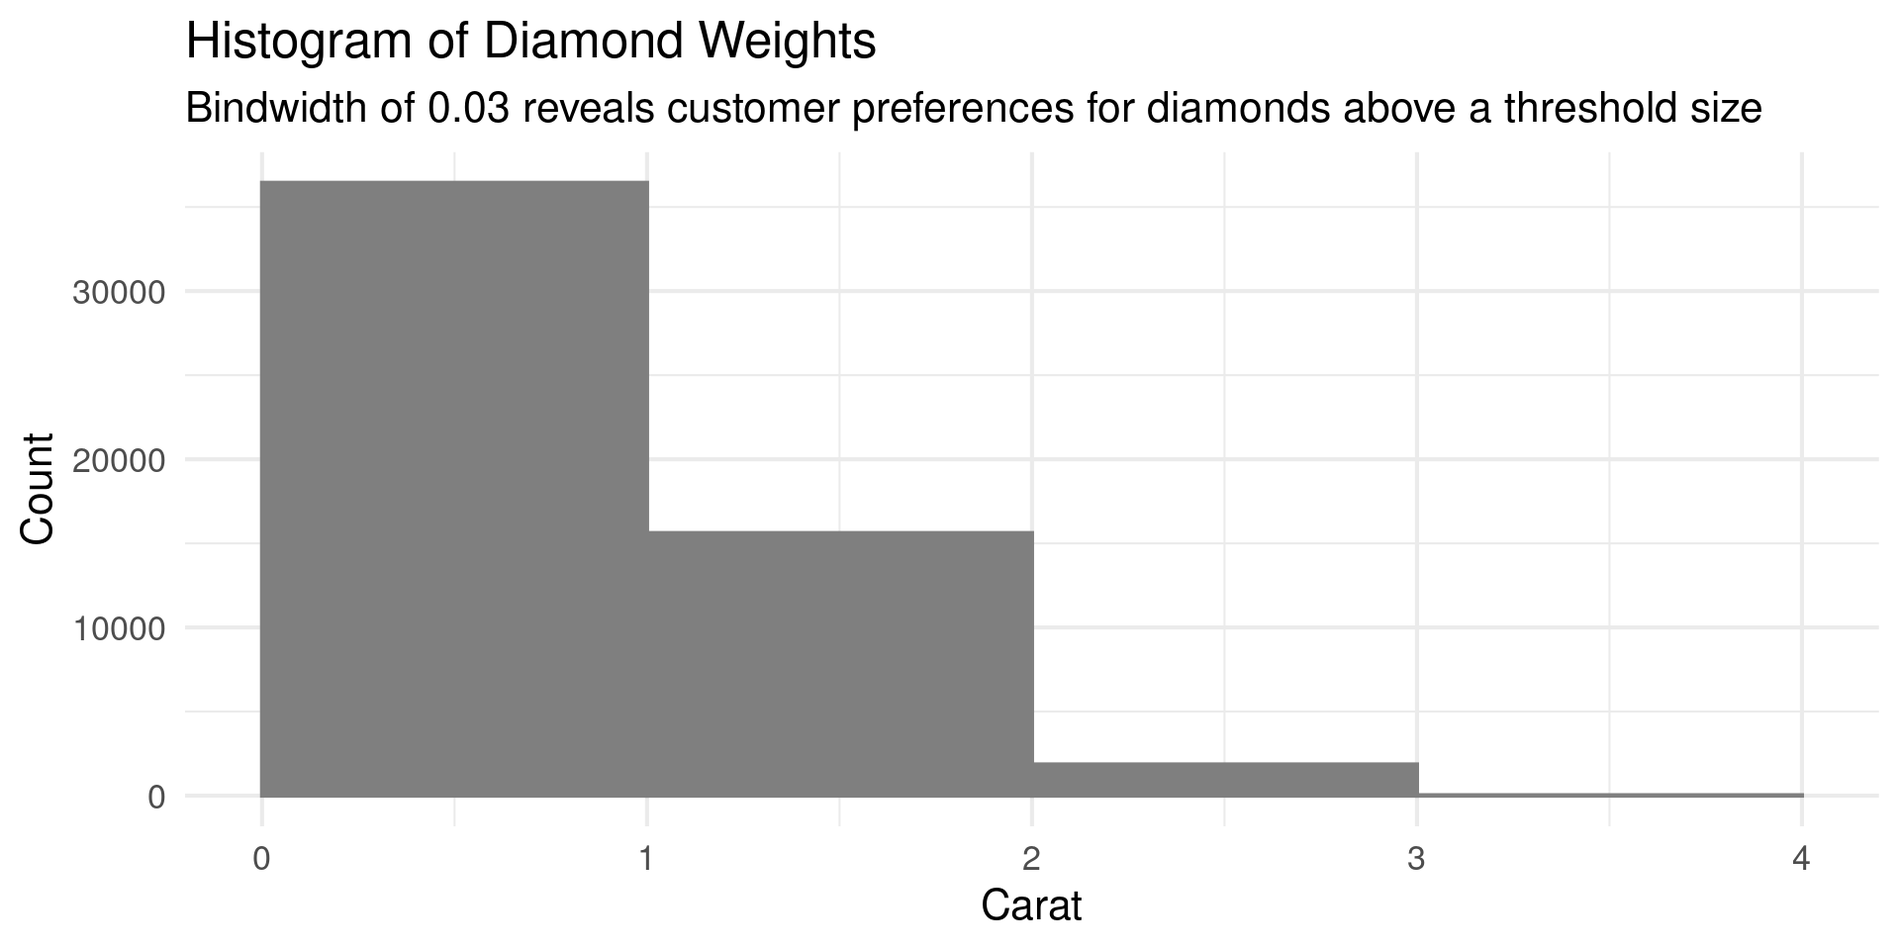
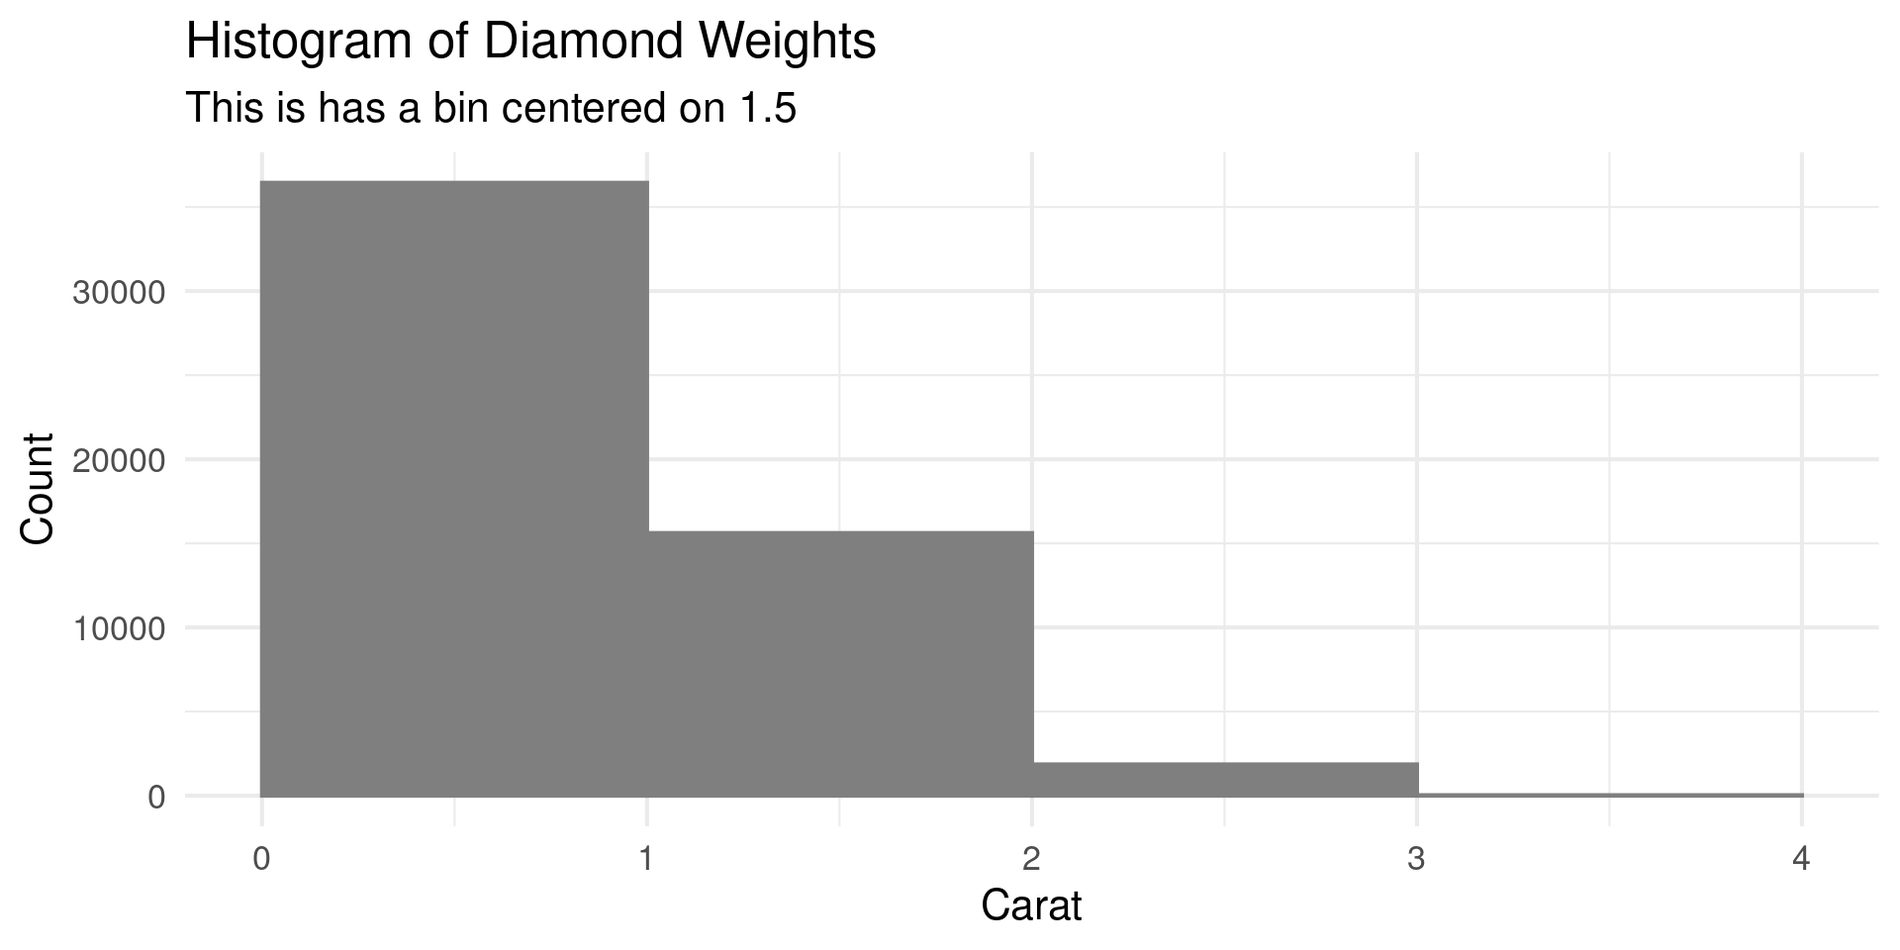
Built site for gh-pages

Changed region(s): [[0.0938, 0.0938, 0.9375, 0.125]]

diff --git a/meetups/meetup-8/meetup-8.html b/meetups/meetup-8/meetup-8.html
@@ -473,6 +473,152 @@ George I. Hagstrom
 </ul>
 
 <img data-src="meetup-8_files/figure-revealjs/unnamed-chunk-6-1.png" width="960" class="r-stretch"></section>
+<section id="number-of-bins" class="slide level2">
+<h2>Number of Bins</h2>
+<ul>
+<li>Can also control number of bins</li>
+</ul>
+
+<img data-src="meetup-8_files/figure-revealjs/unnamed-chunk-7-1.png" width="960" class="r-stretch"></section>
+<section id="number-of-bins-1" class="slide level2">
+<h2>Number of Bins</h2>
+<ul>
+<li>Can also control number of bins</li>
+</ul>
+<div class="cell">
+<div class="sourceCode cell-code" id="cb2" data-code-line-numbers="3"><pre class="sourceCode numberSource r number-lines code-with-copy"><code class="sourceCode r"><span id="cb2-1"><a></a>diamonds <span class="sc">|&gt;</span> </span>
+<span id="cb2-2"><a></a>  <span class="fu">ggplot</span>(<span class="fu">aes</span>(carat)) <span class="sc">+</span></span>
+<span id="cb2-3"><a></a>  <span class="fu">geom_histogram</span>(<span class="at">bins =</span><span class="dv">20</span>, <span class="at">fill =</span> <span class="st">"grey50"</span>,<span class="at">color =</span> <span class="st">"grey50"</span>) <span class="sc">+</span></span>
+<span id="cb2-4"><a></a>  <span class="fu">theme_minimal</span>(<span class="at">base_size =</span> <span class="dv">16</span>) <span class="sc">+</span></span>
+<span id="cb2-5"><a></a>  <span class="fu">scale_x_continuous</span>(<span class="at">limits =</span> <span class="fu">c</span>(<span class="dv">0</span>,<span class="dv">3</span>)) <span class="sc">+</span></span>
+<span id="cb2-6"><a></a>  <span class="fu">labs</span>(<span class="at">title =</span> <span class="st">"Histogram of Diamond Weights"</span>,</span>
+<span id="cb2-7"><a></a>       <span class="at">subtitle=</span> <span class="st">"10 bins"</span>,</span>
+<span id="cb2-8"><a></a>       <span class="at">x=</span><span class="st">"Carat"</span>,</span>
+<span id="cb2-9"><a></a>       <span class="at">y=</span><span class="st">"Count"</span>)</span></code><button title="Copy to Clipboard" class="code-copy-button"><i class="bi"></i></button></pre></div>
+</div>
+</section>
+<section id="center" class="slide level2">
+<h2>center</h2>
+<ul>
+<li>Can control centering of bins</li>
+</ul>
+
+<img data-src="meetup-8_files/figure-revealjs/unnamed-chunk-9-1.png" width="960" class="r-stretch"></section>
+<section id="center-1" class="slide level2">
+<h2>center</h2>
+<ul>
+<li>Can control centering of bins</li>
+</ul>
+
+<img data-src="meetup-8_files/figure-revealjs/unnamed-chunk-10-1.png" width="960" class="r-stretch"></section>
+<section id="center-2" class="slide level2">
+<h2>center</h2>
+<ul>
+<li>Can control centering of bins</li>
+</ul>
+<div class="cell">
+<div class="sourceCode cell-code" id="cb3" data-code-line-numbers="3"><pre class="sourceCode numberSource r number-lines code-with-copy"><code class="sourceCode r"><span id="cb3-1"><a></a>diamonds <span class="sc">|&gt;</span> </span>
+<span id="cb3-2"><a></a>  <span class="fu">ggplot</span>(<span class="fu">aes</span>(carat)) <span class="sc">+</span></span>
+<span id="cb3-3"><a></a>  <span class="fu">geom_histogram</span>(<span class="at">bins =</span><span class="dv">5</span>, <span class="at">fill =</span> <span class="st">"grey50"</span>,<span class="at">color =</span> <span class="st">"grey50"</span>,<span class="at">center =</span> <span class="fl">1.5</span>) <span class="sc">+</span></span>
+<span id="cb3-4"><a></a>  <span class="fu">theme_minimal</span>(<span class="at">base_size =</span> <span class="dv">16</span>) <span class="sc">+</span></span>
+<span id="cb3-5"><a></a>  <span class="fu">scale_x_continuous</span>(<span class="at">limits =</span> <span class="fu">c</span>(<span class="dv">0</span>,<span class="dv">4</span>)) <span class="sc">+</span></span>
+<span id="cb3-6"><a></a>  <span class="fu">labs</span>(<span class="at">title =</span> <span class="st">"Histogram of Diamond Weights"</span>,</span>
+<span id="cb3-7"><a></a>       <span class="at">subtitle=</span> <span class="st">"This is has a bin centered on 1.5"</span>,</span>
+<span id="cb3-8"><a></a>       <span class="at">x=</span><span class="st">"Carat"</span>,</span>
+<span id="cb3-9"><a></a>       <span class="at">y=</span><span class="st">"Count"</span>)</span></code><button title="Copy to Clipboard" class="code-copy-button"><i class="bi"></i></button></pre></div>
+</div>
+</section>
+<section id="boundary" class="slide level2">
+<h2>boundary</h2>
+<ul>
+<li><code>boundary</code> instead of <code>center</code> sets the edge</li>
+</ul>
+
+<img data-src="meetup-8_files/figure-revealjs/unnamed-chunk-12-1.png" width="960" class="r-stretch"></section>
+<section id="boundary-1" class="slide level2">
+<h2>boundary</h2>
+<ul>
+<li><code>boundary</code> instead of <code>center</code> sets the edge</li>
+</ul>
+<div class="cell">
+<div class="sourceCode cell-code" id="cb4" data-code-line-numbers="6"><pre class="sourceCode numberSource r number-lines code-with-copy"><code class="sourceCode r"><span id="cb4-1"><a></a>diamonds <span class="sc">|&gt;</span> </span>
+<span id="cb4-2"><a></a>  <span class="fu">ggplot</span>(<span class="fu">aes</span>(carat)) <span class="sc">+</span></span>
+<span id="cb4-3"><a></a>  <span class="fu">geom_histogram</span>(<span class="at">bins =</span><span class="dv">5</span>, </span>
+<span id="cb4-4"><a></a>                 <span class="at">fill =</span> <span class="st">"grey50"</span>,</span>
+<span id="cb4-5"><a></a>                 <span class="at">color =</span> <span class="st">"grey50"</span>, </span>
+<span id="cb4-6"><a></a>                 <span class="at">boundary =</span> <span class="dv">1</span>) <span class="sc">+</span></span>
+<span id="cb4-7"><a></a>  <span class="fu">theme_minimal</span>(<span class="at">base_size =</span> <span class="dv">16</span>) <span class="sc">+</span></span>
+<span id="cb4-8"><a></a>  <span class="fu">scale_x_continuous</span>(<span class="at">limits =</span> <span class="fu">c</span>(<span class="dv">0</span>,<span class="dv">4</span>)) <span class="sc">+</span></span>
+<span id="cb4-9"><a></a>  <span class="fu">labs</span>(<span class="at">title =</span> <span class="st">"Histogram of Diamond Weights"</span>,</span>
+<span id="cb4-10"><a></a>       <span class="at">subtitle=</span> <span class="st">"Boundary of 1 forces a bin to start there"</span>,</span>
+<span id="cb4-11"><a></a>       <span class="at">x=</span><span class="st">"Carat"</span>,</span>
+<span id="cb4-12"><a></a>       <span class="at">y=</span><span class="st">"Count"</span>)</span></code><button title="Copy to Clipboard" class="code-copy-button"><i class="bi"></i></button></pre></div>
+</div>
+</section>
+<section id="geom_freqpoly" class="slide level2">
+<h2>geom_freqpoly</h2>
+<ul>
+<li>Histogram with lines</li>
+</ul>
+
+<img data-src="meetup-8_files/figure-revealjs/unnamed-chunk-14-1.png" width="960" class="r-stretch"></section>
+<section id="geom_freqpoly-1" class="slide level2">
+<h2>geom_freqpoly</h2>
+<ul>
+<li>Histogram with lines</li>
+</ul>
+
+<img data-src="meetup-8_files/figure-revealjs/unnamed-chunk-15-1.png" width="960" class="r-stretch"></section>
+<section id="geom_freqpoly-2" class="slide level2">
+<h2>geom_freqpoly</h2>
+<ul>
+<li>Histogram with lines</li>
+</ul>
+<div class="cell">
+<div class="sourceCode cell-code" id="cb5" data-code-line-numbers="3"><pre class="sourceCode numberSource r number-lines code-with-copy"><code class="sourceCode r"><span id="cb5-1"><a></a>diamonds <span class="sc">|&gt;</span> </span>
+<span id="cb5-2"><a></a>  <span class="fu">ggplot</span>(<span class="fu">aes</span>(carat)) <span class="sc">+</span></span>
+<span id="cb5-3"><a></a>  <span class="fu">geom_freqpoly</span>(<span class="at">binwidth =</span><span class="fl">0.03</span>, <span class="at">fill =</span> <span class="st">" "</span>,<span class="at">color =</span> <span class="st">"#CC79A7"</span>) <span class="sc">+</span></span>
+<span id="cb5-4"><a></a>  <span class="fu">theme_minimal</span>(<span class="at">base_size =</span> <span class="dv">16</span>) <span class="sc">+</span></span>
+<span id="cb5-5"><a></a>  <span class="fu">scale_x_continuous</span>(<span class="at">limits =</span> <span class="fu">c</span>(<span class="dv">0</span>,<span class="dv">3</span>)) <span class="sc">+</span></span>
+<span id="cb5-6"><a></a>  <span class="fu">labs</span>(<span class="at">title =</span> <span class="st">"Histogram of Diamond Weights"</span>,</span>
+<span id="cb5-7"><a></a>       <span class="at">subtitle=</span> <span class="st">""</span>,</span>
+<span id="cb5-8"><a></a>       <span class="at">x=</span><span class="st">"Carat"</span>,</span>
+<span id="cb5-9"><a></a>       <span class="at">y=</span><span class="st">"Count"</span>)</span></code><button title="Copy to Clipboard" class="code-copy-button"><i class="bi"></i></button></pre></div>
+</div>
+</section>
+<section id="density" class="slide level2">
+<h2>Density</h2>
+<ul>
+<li>Density estimates a smooth curve from the points</li>
+<li>Uses <code>kernel density estimation</code> or <code>kde</code> <span class="math display">\[
+p(x|{x_i}) = \frac{1}{nb_W}\sum_{i=1}^n K\left(\frac{x-x_i}{b_W}\right)
+\]</span></li>
+<li><span class="math inline">\(K\)</span> is a standard probability distribution</li>
+<li><span class="math inline">\(b_W\)</span> is called the bandwidth</li>
+</ul>
+</section>
+<section id="density-1" class="slide level2">
+<h2>Density</h2>
+<ul>
+<li>Two different bandwidths</li>
+</ul>
+
+<img data-src="meetup-8_files/figure-revealjs/unnamed-chunk-17-1.png" width="576" class="r-stretch"></section>
+<section id="density-2" class="slide level2">
+<h2>Density</h2>
+<ul>
+<li>Two different bandwidths</li>
+</ul>
+<div class="cell">
+<div class="sourceCode cell-code" id="cb6" data-code-line-numbers="4-5"><pre class="sourceCode numberSource r number-lines code-with-copy"><code class="sourceCode r"><span id="cb6-1"><a></a>data <span class="ot">=</span> <span class="fu">tibble</span>(<span class="at">x =</span> <span class="fu">rnorm</span>(<span class="dv">100</span>))</span>
+<span id="cb6-2"><a></a></span>
+<span id="cb6-3"><a></a>data <span class="sc">|&gt;</span> <span class="fu">ggplot</span>(<span class="fu">aes</span>(x)) <span class="sc">+</span></span>
+<span id="cb6-4"><a></a>  <span class="fu">geom_density</span>(<span class="at">bw =</span> <span class="fl">0.01</span>,<span class="at">color=</span><span class="st">"#E69F00"</span>) <span class="sc">+</span></span>
+<span id="cb6-5"><a></a>    <span class="fu">geom_density</span>(<span class="at">bw =</span> <span class="fl">0.1</span>,<span class="at">color=</span><span class="st">"#56B4E9"</span>) <span class="sc">+</span></span>
+<span id="cb6-6"><a></a>  <span class="fu">theme_minimal</span>(<span class="at">base_size=</span><span class="dv">16</span>) <span class="sc">+</span></span>
+<span id="cb6-7"><a></a>  <span class="fu">labs</span>(<span class="at">title=</span><span class="st">"Demonstrating different bandwidth"</span>)</span></code><button title="Copy to Clipboard" class="code-copy-button"><i class="bi"></i></button></pre></div>
+</div>
+</section>
 <section id="algorithmic-bandwidth" class="slide level2">
 <h2>Algorithmic Bandwidth</h2>
 <table class="caption-top">
@@ -510,153 +656,7 @@ George I. Hagstrom
 <section id="comparing-algos" class="slide level2">
 <h2>Comparing Algos</h2>
 
-<img data-src="meetup-8_files/figure-revealjs/unnamed-chunk-7-1.png" width="1152" class="r-stretch"></section>
-<section id="number-of-bins" class="slide level2">
-<h2>Number of Bins</h2>
-<ul>
-<li>Can also control number of bins</li>
-</ul>
-
-<img data-src="meetup-8_files/figure-revealjs/unnamed-chunk-8-1.png" width="960" class="r-stretch"></section>
-<section id="number-of-bins-1" class="slide level2">
-<h2>Number of Bins</h2>
-<ul>
-<li>Can also control number of bins</li>
-</ul>
-<div class="cell">
-<div class="sourceCode cell-code" id="cb2" data-code-line-numbers="3"><pre class="sourceCode numberSource r number-lines code-with-copy"><code class="sourceCode r"><span id="cb2-1"><a></a>diamonds <span class="sc">|&gt;</span> </span>
-<span id="cb2-2"><a></a>  <span class="fu">ggplot</span>(<span class="fu">aes</span>(carat)) <span class="sc">+</span></span>
-<span id="cb2-3"><a></a>  <span class="fu">geom_histogram</span>(<span class="at">bins =</span><span class="dv">20</span>, <span class="at">fill =</span> <span class="st">"grey50"</span>,<span class="at">color =</span> <span class="st">"grey50"</span>) <span class="sc">+</span></span>
-<span id="cb2-4"><a></a>  <span class="fu">theme_minimal</span>(<span class="at">base_size =</span> <span class="dv">16</span>) <span class="sc">+</span></span>
-<span id="cb2-5"><a></a>  <span class="fu">scale_x_continuous</span>(<span class="at">limits =</span> <span class="fu">c</span>(<span class="dv">0</span>,<span class="dv">3</span>)) <span class="sc">+</span></span>
-<span id="cb2-6"><a></a>  <span class="fu">labs</span>(<span class="at">title =</span> <span class="st">"Histogram of Diamond Weights"</span>,</span>
-<span id="cb2-7"><a></a>       <span class="at">subtitle=</span> <span class="st">"10 bins"</span>,</span>
-<span id="cb2-8"><a></a>       <span class="at">x=</span><span class="st">"Carat"</span>,</span>
-<span id="cb2-9"><a></a>       <span class="at">y=</span><span class="st">"Count"</span>)</span></code><button title="Copy to Clipboard" class="code-copy-button"><i class="bi"></i></button></pre></div>
-</div>
-</section>
-<section id="center" class="slide level2">
-<h2>center</h2>
-<ul>
-<li>Can control centering of bins</li>
-</ul>
-
-<img data-src="meetup-8_files/figure-revealjs/unnamed-chunk-10-1.png" width="960" class="r-stretch"></section>
-<section id="center-1" class="slide level2">
-<h2>center</h2>
-<ul>
-<li>Can control centering of bins</li>
-</ul>
-
-<img data-src="meetup-8_files/figure-revealjs/unnamed-chunk-11-1.png" width="960" class="r-stretch"></section>
-<section id="center-2" class="slide level2">
-<h2>center</h2>
-<ul>
-<li>Can control centering of bins</li>
-</ul>
-<div class="cell">
-<div class="sourceCode cell-code" id="cb3" data-code-line-numbers="3"><pre class="sourceCode numberSource r number-lines code-with-copy"><code class="sourceCode r"><span id="cb3-1"><a></a>diamonds <span class="sc">|&gt;</span> </span>
-<span id="cb3-2"><a></a>  <span class="fu">ggplot</span>(<span class="fu">aes</span>(carat)) <span class="sc">+</span></span>
-<span id="cb3-3"><a></a>  <span class="fu">geom_histogram</span>(<span class="at">bins =</span><span class="dv">5</span>, <span class="at">fill =</span> <span class="st">"grey50"</span>,<span class="at">color =</span> <span class="st">"grey50"</span>,<span class="at">center =</span> <span class="fl">1.5</span>) <span class="sc">+</span></span>
-<span id="cb3-4"><a></a>  <span class="fu">theme_minimal</span>(<span class="at">base_size =</span> <span class="dv">16</span>) <span class="sc">+</span></span>
-<span id="cb3-5"><a></a>  <span class="fu">scale_x_continuous</span>(<span class="at">limits =</span> <span class="fu">c</span>(<span class="dv">0</span>,<span class="dv">4</span>)) <span class="sc">+</span></span>
-<span id="cb3-6"><a></a>  <span class="fu">labs</span>(<span class="at">title =</span> <span class="st">"Histogram of Diamond Weights"</span>,</span>
-<span id="cb3-7"><a></a>       <span class="at">subtitle=</span> <span class="st">"This is has a bin centered on 1.5"</span>,</span>
-<span id="cb3-8"><a></a>       <span class="at">x=</span><span class="st">"Carat"</span>,</span>
-<span id="cb3-9"><a></a>       <span class="at">y=</span><span class="st">"Count"</span>)</span></code><button title="Copy to Clipboard" class="code-copy-button"><i class="bi"></i></button></pre></div>
-</div>
-</section>
-<section id="boundary" class="slide level2">
-<h2>boundary</h2>
-<ul>
-<li><code>boundary</code> instead of <code>center</code> sets the edge</li>
-</ul>
-
-<img data-src="meetup-8_files/figure-revealjs/unnamed-chunk-13-1.png" width="960" class="r-stretch"></section>
-<section id="boundary-1" class="slide level2">
-<h2>boundary</h2>
-<ul>
-<li><code>boundary</code> instead of <code>center</code> sets the edge</li>
-</ul>
-<div class="cell">
-<div class="sourceCode cell-code" id="cb4" data-code-line-numbers="6"><pre class="sourceCode numberSource r number-lines code-with-copy"><code class="sourceCode r"><span id="cb4-1"><a></a>diamonds <span class="sc">|&gt;</span> </span>
-<span id="cb4-2"><a></a>  <span class="fu">ggplot</span>(<span class="fu">aes</span>(carat)) <span class="sc">+</span></span>
-<span id="cb4-3"><a></a>  <span class="fu">geom_histogram</span>(<span class="at">bins =</span><span class="dv">5</span>, </span>
-<span id="cb4-4"><a></a>                 <span class="at">fill =</span> <span class="st">"grey50"</span>,</span>
-<span id="cb4-5"><a></a>                 <span class="at">color =</span> <span class="st">"grey50"</span>, </span>
-<span id="cb4-6"><a></a>                 <span class="at">boundary =</span> <span class="dv">1</span>) <span class="sc">+</span></span>
-<span id="cb4-7"><a></a>  <span class="fu">theme_minimal</span>(<span class="at">base_size =</span> <span class="dv">16</span>) <span class="sc">+</span></span>
-<span id="cb4-8"><a></a>  <span class="fu">scale_x_continuous</span>(<span class="at">limits =</span> <span class="fu">c</span>(<span class="dv">0</span>,<span class="dv">4</span>)) <span class="sc">+</span></span>
-<span id="cb4-9"><a></a>  <span class="fu">labs</span>(<span class="at">title =</span> <span class="st">"Histogram of Diamond Weights"</span>,</span>
-<span id="cb4-10"><a></a>       <span class="at">subtitle=</span> <span class="st">"Boundary of 1 forces a bin to start there"</span>,</span>
-<span id="cb4-11"><a></a>       <span class="at">x=</span><span class="st">"Carat"</span>,</span>
-<span id="cb4-12"><a></a>       <span class="at">y=</span><span class="st">"Count"</span>)</span></code><button title="Copy to Clipboard" class="code-copy-button"><i class="bi"></i></button></pre></div>
-</div>
-</section>
-<section id="geom_freqpoly" class="slide level2">
-<h2>geom_freqpoly</h2>
-<ul>
-<li>Histogram with lines</li>
-</ul>
-
-<img data-src="meetup-8_files/figure-revealjs/unnamed-chunk-15-1.png" width="960" class="r-stretch"></section>
-<section id="geom_freqpoly-1" class="slide level2">
-<h2>geom_freqpoly</h2>
-<ul>
-<li>Histogram with lines</li>
-</ul>
-
-<img data-src="meetup-8_files/figure-revealjs/unnamed-chunk-16-1.png" width="960" class="r-stretch"></section>
-<section id="geom_freqpoly-2" class="slide level2">
-<h2>geom_freqpoly</h2>
-<ul>
-<li>Histogram with lines</li>
-</ul>
-<div class="cell">
-<div class="sourceCode cell-code" id="cb5" data-code-line-numbers="3"><pre class="sourceCode numberSource r number-lines code-with-copy"><code class="sourceCode r"><span id="cb5-1"><a></a>diamonds <span class="sc">|&gt;</span> </span>
-<span id="cb5-2"><a></a>  <span class="fu">ggplot</span>(<span class="fu">aes</span>(carat)) <span class="sc">+</span></span>
-<span id="cb5-3"><a></a>  <span class="fu">geom_freqpoly</span>(<span class="at">binwidth =</span><span class="fl">0.03</span>, <span class="at">fill =</span> <span class="st">" "</span>,<span class="at">color =</span> <span class="st">"#CC79A7"</span>) <span class="sc">+</span></span>
-<span id="cb5-4"><a></a>  <span class="fu">theme_minimal</span>(<span class="at">base_size =</span> <span class="dv">16</span>) <span class="sc">+</span></span>
-<span id="cb5-5"><a></a>  <span class="fu">scale_x_continuous</span>(<span class="at">limits =</span> <span class="fu">c</span>(<span class="dv">0</span>,<span class="dv">3</span>)) <span class="sc">+</span></span>
-<span id="cb5-6"><a></a>  <span class="fu">labs</span>(<span class="at">title =</span> <span class="st">"Histogram of Diamond Weights"</span>,</span>
-<span id="cb5-7"><a></a>       <span class="at">subtitle=</span> <span class="st">""</span>,</span>
-<span id="cb5-8"><a></a>       <span class="at">x=</span><span class="st">"Carat"</span>,</span>
-<span id="cb5-9"><a></a>       <span class="at">y=</span><span class="st">"Count"</span>)</span></code><button title="Copy to Clipboard" class="code-copy-button"><i class="bi"></i></button></pre></div>
-</div>
-</section>
-<section id="density" class="slide level2">
-<h2>Density</h2>
-<ul>
-<li>Density estimates a smooth curve from the points</li>
-<li>Uses <code>kernel density estimation</code> or <code>kde</code> <span class="math display">\[
-p(x|{x_i}) = \frac{1}{nb_W}\sum_{i=1}^n K\left(\frac{x-x_i}{b_W}\right)
-\]</span></li>
-<li><span class="math inline">\(K\)</span> is a standard probability distribution</li>
-<li><span class="math inline">\(b_W\)</span> is called the bandwidth</li>
-</ul>
-</section>
-<section id="density-1" class="slide level2">
-<h2>Density</h2>
-<ul>
-<li>Two different bandwidths</li>
-</ul>
-
-<img data-src="meetup-8_files/figure-revealjs/unnamed-chunk-18-1.png" width="576" class="r-stretch"></section>
-<section id="density-2" class="slide level2">
-<h2>Density</h2>
-<ul>
-<li>Two different bandwidths</li>
-</ul>
-<div class="cell">
-<div class="sourceCode cell-code" id="cb6" data-code-line-numbers="4-5"><pre class="sourceCode numberSource r number-lines code-with-copy"><code class="sourceCode r"><span id="cb6-1"><a></a>data <span class="ot">=</span> <span class="fu">tibble</span>(<span class="at">x =</span> <span class="fu">rnorm</span>(<span class="dv">100</span>))</span>
-<span id="cb6-2"><a></a></span>
-<span id="cb6-3"><a></a>data <span class="sc">|&gt;</span> <span class="fu">ggplot</span>(<span class="fu">aes</span>(x)) <span class="sc">+</span></span>
-<span id="cb6-4"><a></a>  <span class="fu">geom_density</span>(<span class="at">bw =</span> <span class="fl">0.01</span>,<span class="at">color=</span><span class="st">"#E69F00"</span>) <span class="sc">+</span></span>
-<span id="cb6-5"><a></a>    <span class="fu">geom_density</span>(<span class="at">bw =</span> <span class="fl">0.1</span>,<span class="at">color=</span><span class="st">"#56B4E9"</span>) <span class="sc">+</span></span>
-<span id="cb6-6"><a></a>  <span class="fu">theme_minimal</span>(<span class="at">base_size=</span><span class="dv">16</span>) <span class="sc">+</span></span>
-<span id="cb6-7"><a></a>  <span class="fu">labs</span>(<span class="at">title=</span><span class="st">"Demonstrating different bandwidth"</span>)</span></code><button title="Copy to Clipboard" class="code-copy-button"><i class="bi"></i></button></pre></div>
-</div>
-</section>
+<img data-src="meetup-8_files/figure-revealjs/unnamed-chunk-19-1.png" width="1152" class="r-stretch"></section>
 <section id="kernels" class="slide level2">
 <h2>Kernels</h2>
 <ul>

diff --git a/course/schedule.html b/course/schedule.html
@@ -404,7 +404,7 @@ ul.task-list li input[type="checkbox"] {
 <td>Oct 19</td>
 <td><a href="../modules/module8.html">Distributions and Histograms</a></td>
 <td><a href="../meetups/meetup-8/meetup-8.html">Meetup 8 Slides</a></td>
-<td></td>
+<td><a href="https://youtu.be/aYJPan9Fx_w">Meetup 8 Video</a></td>
 <td><a href="../assignments/stories/story4.html">Story 4</a> due Sun Oct 25</td>
 </tr>
 <tr class="odd">
